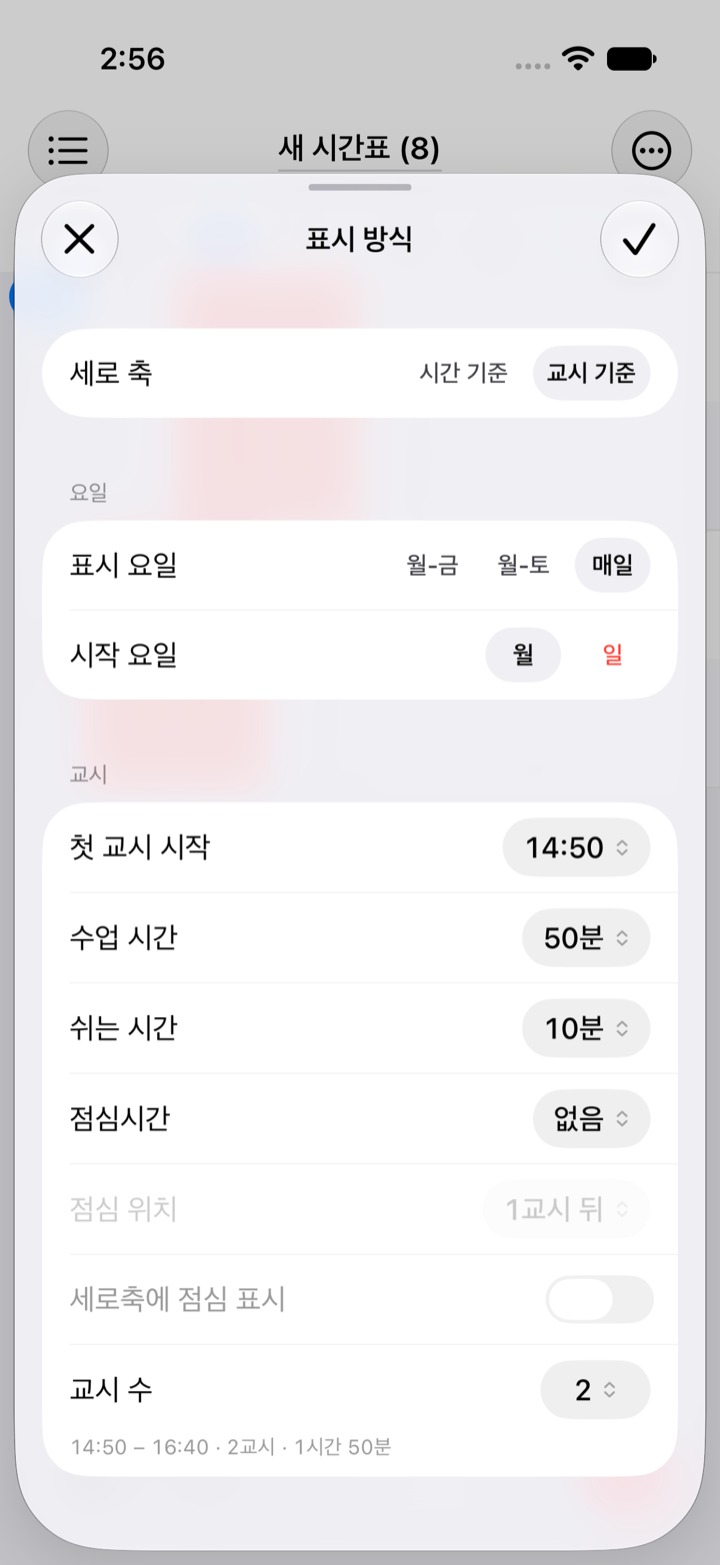
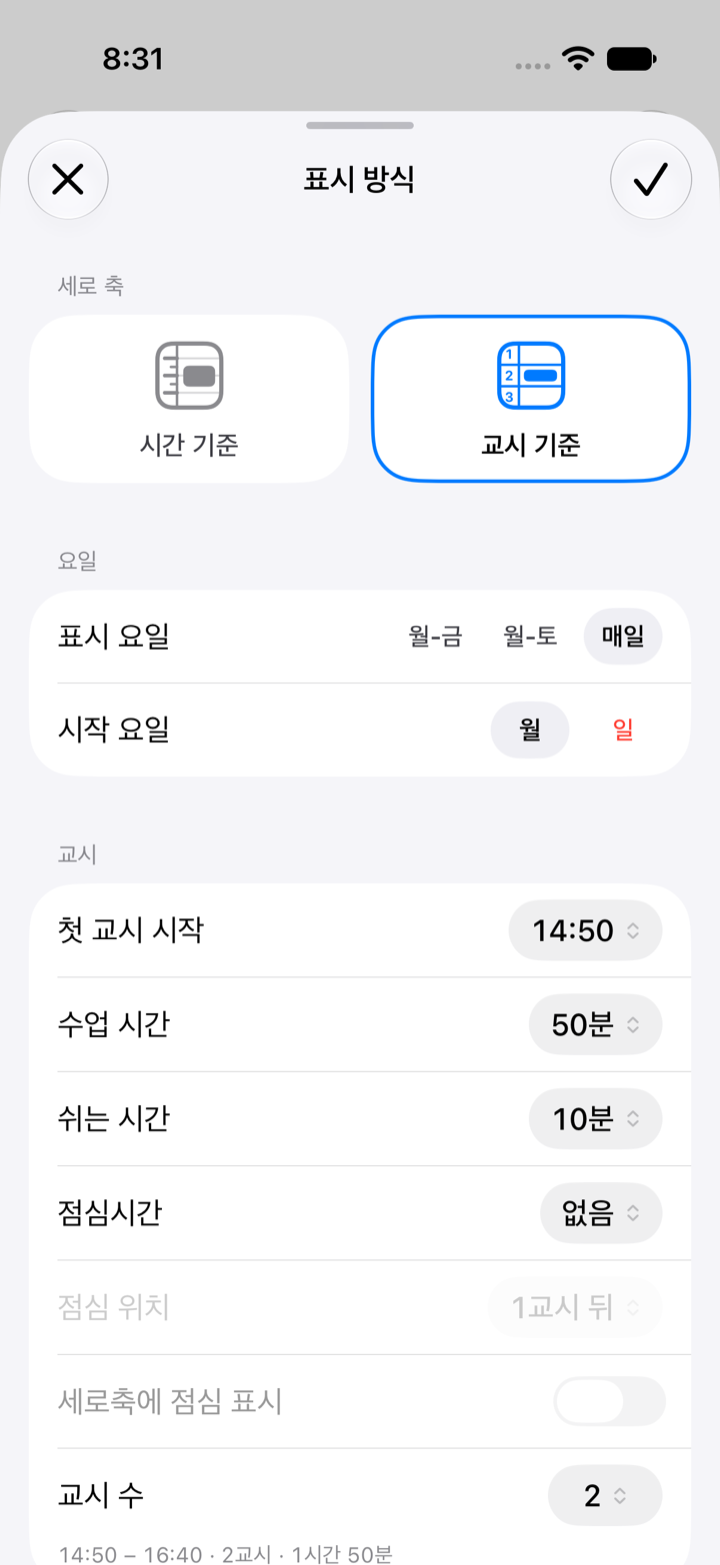
improve: blog — 시간표에 '교시' 축을 달았다 (merge 2026-10-06 — 세로 축 타일)
Claude-Session: https://claude.ai/code/session_01W9LVHndLUw1VHdQwWkDy4W

diff --git a/src/content/blog/en/2026-09-29-timetable-period-axis.md b/src/content/blog/en/2026-09-29-timetable-period-axis.md
@@ -1,6 +1,6 @@
 ---
 title: "A class-period axis for the timetable — real times underneath, period rows on screen"
-date: 2026-10-06T02:59:21+09:00
+date: 2026-10-06T08:45:00+09:00
 app: "timetable"
 tags: ["devlog", "swiftui", "design"]
 summary: "When you create a timetable you now pick time-based or period-based. Period timetables stack equal-height rows for Period 1, 2, … and events snap to them as you drag."
@@ -351,9 +351,9 @@ UI tests can't capture a home screen widget. This time the widget's own source f
 
 ## Update, Oct 6 — switch the axis after the fact, and the display sheet gets its X back
 
-The vertical axis used to be a one-time choice at creation. Now the display sheet has a **Vertical Axis** chip row at the top; tap it and the timetable switches on the spot.
+The vertical axis used to be a one-time choice at creation. Now the display sheet has a pair of **Vertical Axis** tiles at the top; tap one and the timetable switches on the spot. It began as a row of text chips, but that did not read as the same choice you make with pictures when creating a timetable, so the same day it became tiles with the same icons.
 
-![The axis chips at the top of the display sheet, with By Time selected and the start/end time card below](/blog/timetable-axis-switch/time-cards.png)
+![The axis tiles at the top of the display sheet — the same icons as the new-timetable sheet, By Time outlined in blue](/blog/timetable-axis-switch/time-cards.png)
 
 ![Right after tapping By Period — the same slot now holds the period rules card, with the first period starting where the events start](/blog/timetable-axis-switch/period-cards.png)
 
@@ -396,3 +396,4 @@ The alert says how many events will go, not which ones. That is next.
 - Oct 3, late night — events spanning a removed period are counted in the confirmation ("shortened"), period-specific alert wording, Continue when nothing is deleted
 - Oct 5 — the full timetable widget draws period rows (period names step aside from the now-capsule); fixed last-period events drawn one row up when the lunch row is on
 - Oct 6 — axis switching from the display sheet (periods laid over the span the events cover, only gap-only events deleted after confirmation, one undo step); the X returns as discard-all; fixed a commit flag stuck by a spurious `onDisappear` on first presentation
+- Oct 6, morning — the axis choice went from text chips to icon tiles (same icons and selection style as the new-timetable sheet)
